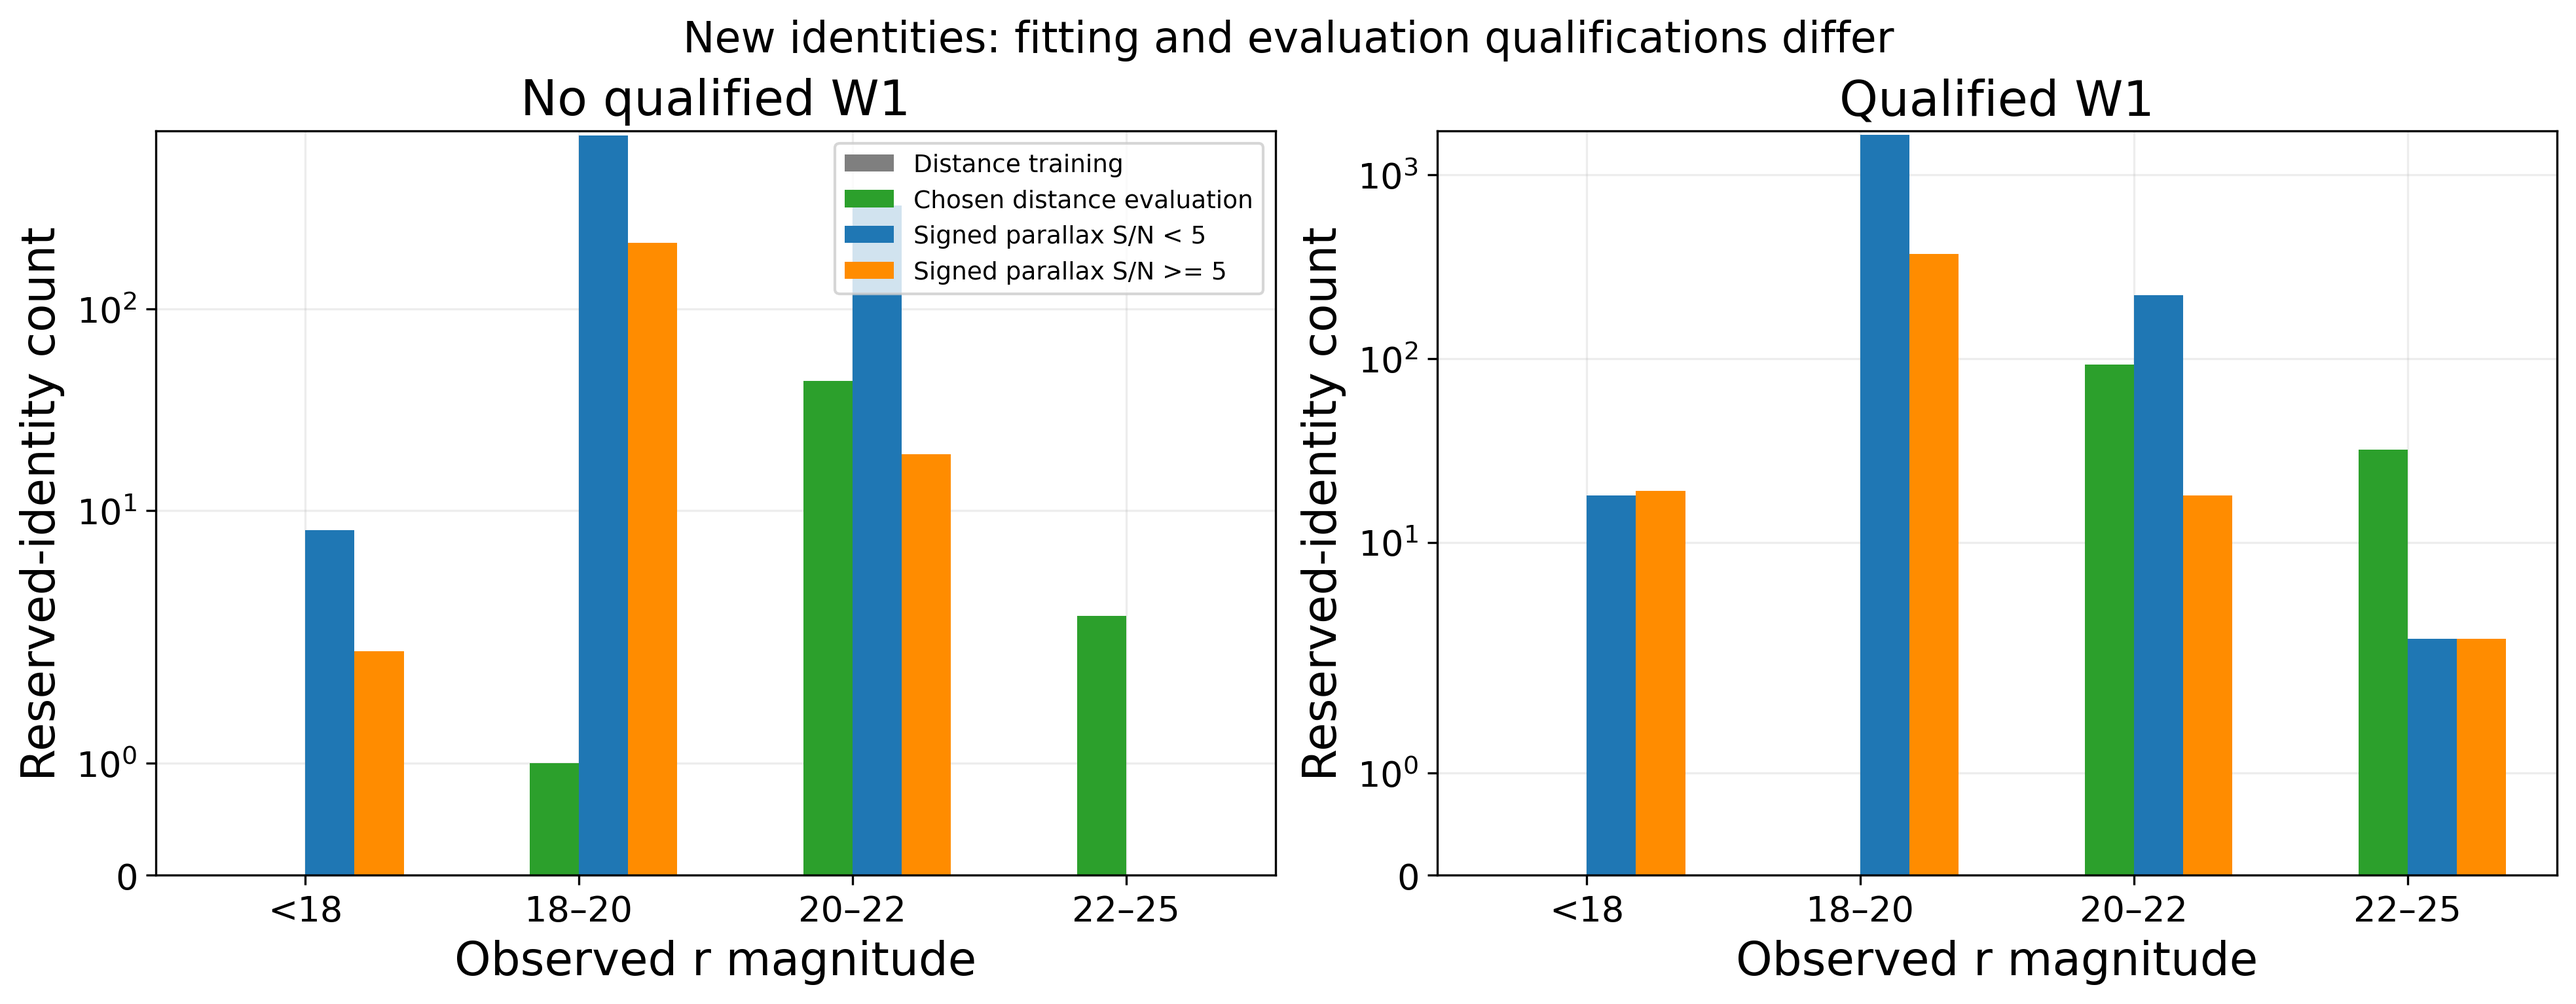
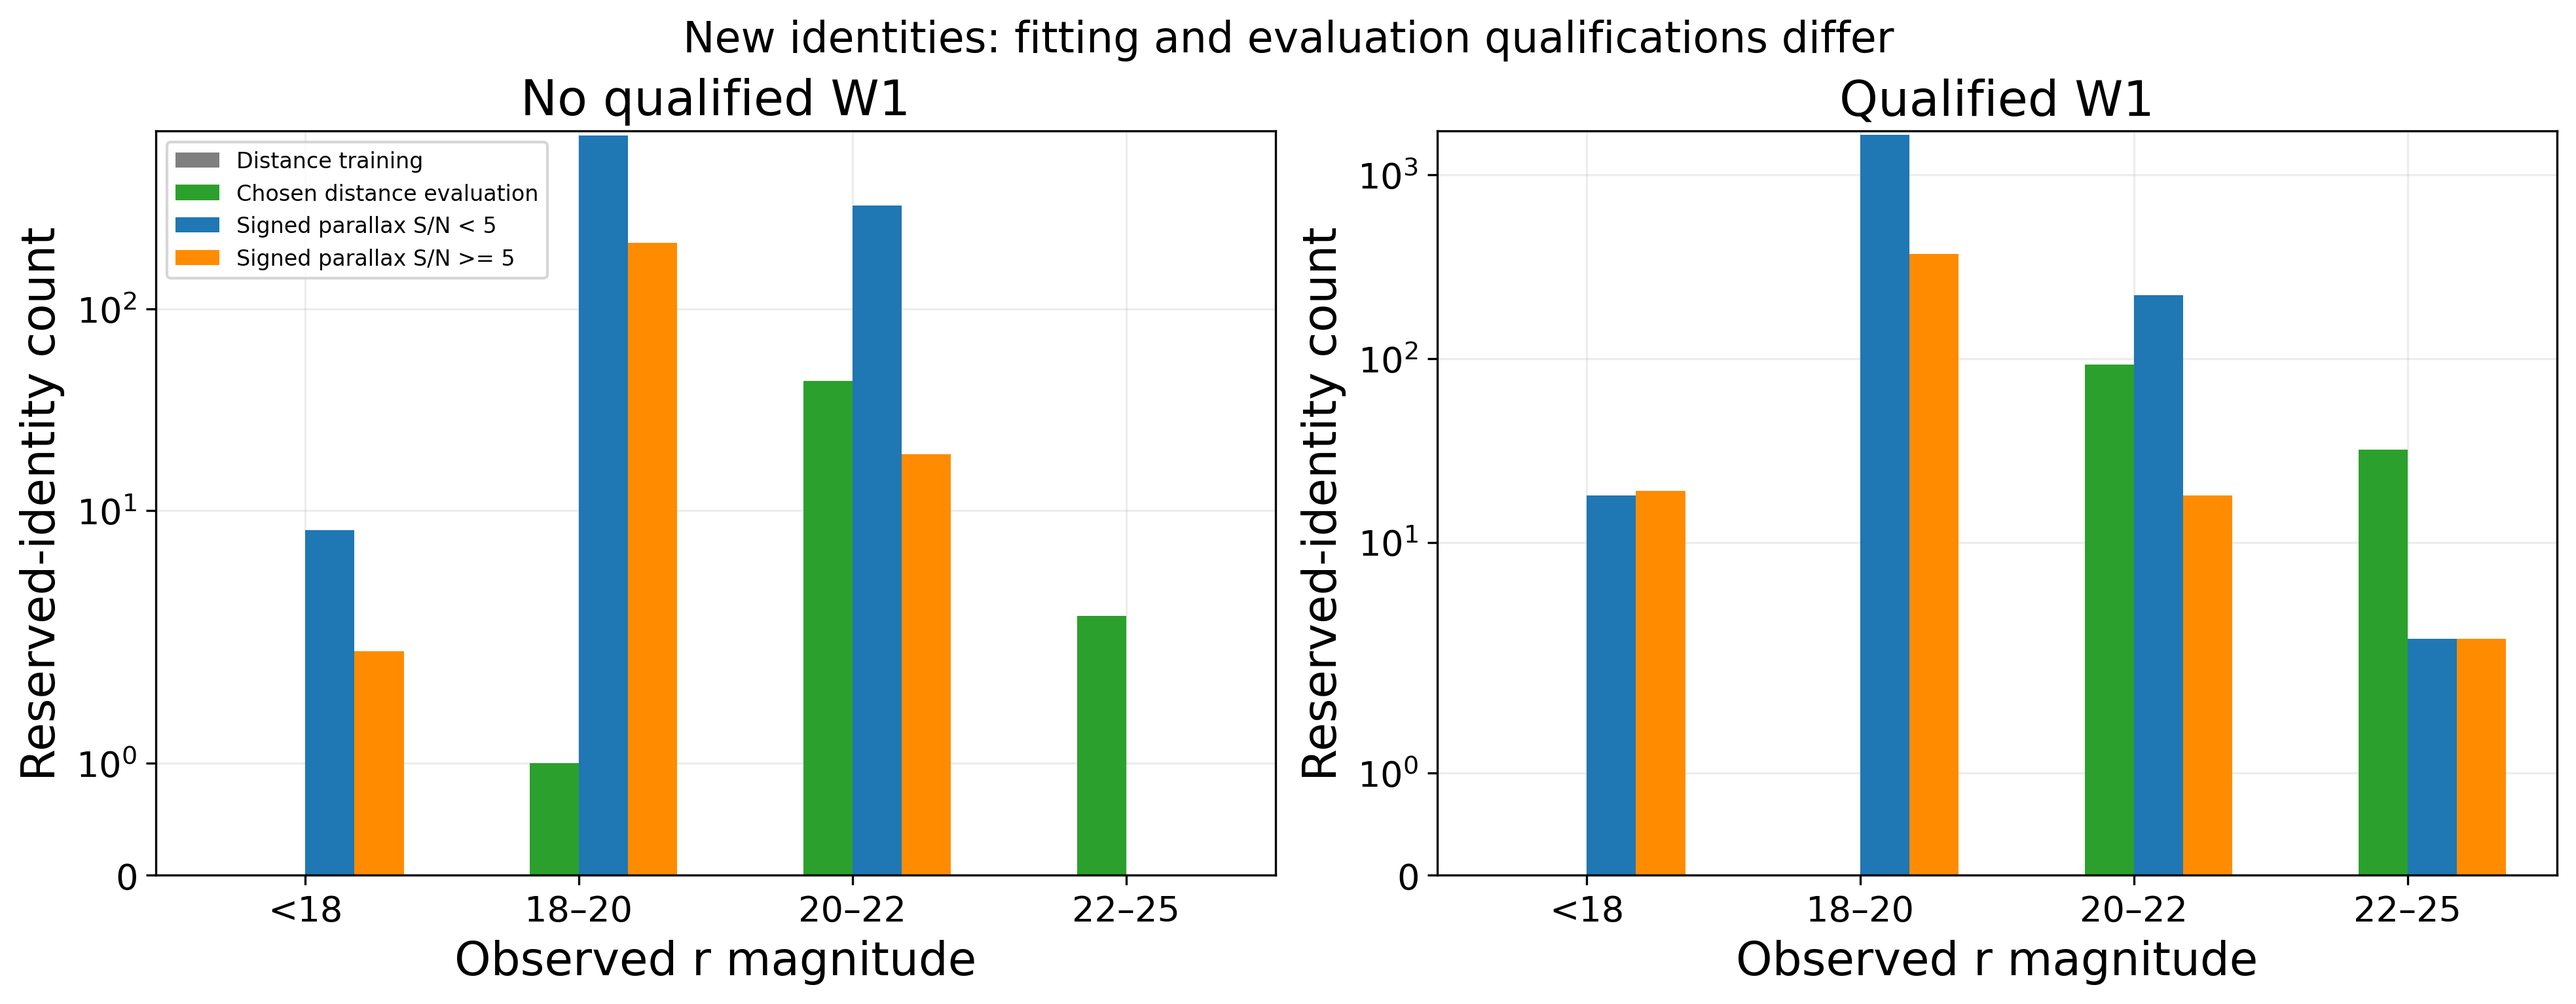
Add far-branch and artifact checks with exact-owner training provenance

Changed region(s): [[0.3101, 0.1532, 0.4962, 0.3064], [0.062, 0.1226, 0.2171, 0.2757]]

diff --git a/scripts/v2_3_far.py b/scripts/v2_3_far.py
@@ -1,0 +1,75 @@
+#!/usr/bin/env python3
+"""Post-freeze branch diagnostics and explicitly selected nonstellar controls."""
+import json
+import joblib
+import numpy as np
+from scipy.special import ndtr
+from v2_3_prepare import ROOT, DEST, TABLES
+from v2_3_diagnostics import references
+from v2_1_near import load, subset, csv_rows, save_json, sha
+from photdis.stage1 import require_compute
+from photdis.baseline_v0 import metrics, distance_quantiles
+from photdis.baseline_v1 import quantiles_interpolated
+from photdis.probability_v2_1 import JointReferenceForest
+from baseline_v1_4_experiments import arrays
+
+
+def main():
+    require_compute()
+    t=load(ROOT/'data/v2_1/development.npz');train=load(DEST/'training.npz')
+    keep=np.zeros(len(t['identity']),bool)
+    for kind in ('chosen','Gaia','specdis','spdist'):
+        ref,_=references(t,kind);d=10**((ref-10)/5)
+        keep|=(t['class_label']==1)&(d>=10)&(d<50)
+    rows=np.flatnonzero(keep);q=subset(t,rows)
+    control=joblib.load(DEST/'control.joblib');candidate=joblib.load(DEST/'candidate.joblib')
+    m,_,_=arrays(train,np.arange(len(train['identity'])))
+    joint=JointReferenceForest(control,m,train['Mg'],train['class_label'],train['label_source'])
+    values={n:dict(mu=np.full((len(rows),5),np.nan),mass=np.zeros(len(rows))) for n in ('control','candidate')}
+    for start in range(0,len(rows),128):
+        rr=np.arange(start,min(start+128,len(rows)));m,e,ids=arrays(q,rr)
+        pp=joint.predict(m,e,ids);p=pp['joint'][:,1].astype(float);mass=p.sum(axis=1);good=mass>0
+        values['control']['mass'][rr]=mass
+        values['control']['mu'][rr[good]]=distance_quantiles(m[good,0],quantiles_interpolated(p[good]/mass[good,None],control.edges))[0]
+        w,mean,sigma=candidate.conditional(m,e);w*=candidate.class_frequency[None,:,1];mass=w.sum(axis=1)
+        values['candidate']['mass'][rr]=mass;good=mass>0;w=w[good]/mass[good,None]
+        edges=np.arange(-30,40.0001,.1);pdf=np.zeros((good.sum(),len(edges)-1))
+        for k in range(candidate.components):pdf+=w[:,k,None]*np.diff(ndtr((edges[None,:]-mean[good,k,None])/sigma[good,k,None]),axis=1)
+        pdf/=pdf.sum(axis=1)[:,None]
+        values['candidate']['mu'][rr[good]]=distance_quantiles(m[good,0],quantiles_interpolated(pdf,edges))[0]
+    results=[]
+    for name,p in values.items():
+        for split,role in [(1,'cal'),(2,'development_test')]:
+            for kind in ('chosen','Gaia','specdis','spdist'):
+                ref,sigma=references(q,kind);d=10**((ref-10)/5)
+                for lo,hi in [(10,20),(20,50)]:
+                    eligible=(q['split']==split)&(d>=lo)&(d<hi);use=eligible&(p['mass']>0)
+                    results.append(dict(model=name,role=role,reference=kind,low_kpc=lo,high_kpc=hi,eligible=int(eligible.sum()),
+                        mean_branch_mass=float(p['mass'][eligible].mean()) if eligible.any() else None,
+                        **metrics(p['mu'][use],ref[use])))
+    csv_rows(TABLES/'far_conditional.csv',results)
+    # Independent of class oracle: same-object reference disagreement retained.
+    a,sa=references(q,'specdis');b,sb=references(q,'spdist');r=[]
+    for lo,hi in [(10,20),(20,50)]:
+        d=10**((a-10)/5);u=(q['split']==2)&np.isfinite(a)&np.isfinite(b)&(d>=lo)&(d<hi)
+        delta=a[u]-b[u]
+        r.append(dict(low_kpc=lo,high_kpc=hi,n=int(u.sum()),median_specdis_minus_spdist_mu=float(np.median(delta)) if len(delta) else None,
+            nmad_mu=float(1.4826*np.median(abs(delta-np.median(delta)))) if len(delta) else None))
+    csv_rows(TABLES/'far_reference_disagreement.csv',r)
+    controls=[]
+    for role,t in [('development',t),('reserved',load(DEST/'reserved_inputs.npz'))]:
+        for name in ('control','candidate'):
+            p=load(DEST/f'{role}_{name}.npz')
+            for lo,hi in [(-np.inf,18),(18,20),(20,22),(22,25)]:
+                u=t['nonstellar_risk']&(t['r']>=lo)&(t['r']<hi)
+                controls.append(dict(role=role,model=name,r_low=lo,r_high=hi,flagged_n=int(u.sum()),near_scope_selected=int((u&p['near_scope']).sum()),
+                    broad_q95_r20_selected=int((u&(p['qnear']>.95)&(t['r']<20)).sum()),
+                    caveat='Risk-flagged PSF controls, not confirmed nonstellar truth or representative contamination estimate'))
+    csv_rows(TABLES/'psf_nonstellar_controls.csv',controls)
+    save_json(DEST/'far_complete.json',dict(models=json.loads((DEST/'models_frozen.json').read_text())['models'],
+        oracle_rows=len(rows),class_conditioning='Diagnostic only; missing label is not a fourth physical class',
+        independent_scale=False,source='Existing chosen/Gaia/SpecDis/SPDist only'))
+    print('FAR COMPLETE',len(rows),flush=True)
+
+
+if __name__=='__main__':main()

diff --git a/scripts/v2_3_validate.py b/scripts/v2_3_validate.py
@@ -1,0 +1,61 @@
+#!/usr/bin/env python3
+"""Verify real frozen data, probability outputs and separation after production."""
+import csv
+import json
+import numpy as np
+from v2_3_prepare import ROOT,DEST,TABLES
+from v2_1_near import load,sha,save_json
+from photdis.stage1 import require_compute
+from photdis.probability_v2_1 import near_mass
+from photdis.selection_v2_2 import canonical_probability
+
+
+def main():
+    require_compute();checks={}
+    def check(name,result):
+        checks[name]=bool(result)
+        assert result,name
+    freeze=json.loads((DEST/'models_frozen.json').read_text());tr=load(DEST/'training.npz');old=load(ROOT/'data/v2_1/frozen_training_audit.npz')
+    for path,digest in freeze['inputs'].items():check('frozen:'+path,sha(ROOT/path)==digest)
+    for name,h in freeze['models'].items():check('model:'+name,sha(DEST/(name+'.joblib'))==h)
+    check('strict_training',np.all(tr['TYPE']=='PSF'))
+    check('unlabeled_support_retained',np.sum(tr['class_label']<0)==43914)
+    check('finite_reference_errors',np.all(np.isfinite(tr['sigma_mu'])&(tr['sigma_mu']>0)))
+    from photdis.reference_v1_4 import unique_join
+    j=unique_join(tr['identity'],old['identity']);check('original_training_owners',(j>=0).all() and np.array_equal(tr['ls_id'],old['ls_id'][j]))
+    for k in ['g0','r0','z0','sigma_g','sigma_r','sigma_z','Mg','TYPE']:check('unchanged_training:'+k,np.array_equal(tr[k],old[k][j],equal_nan=True) if tr[k].dtype.kind=='f' else np.array_equal(tr[k],old[k][j]))
+    allids={}
+    for role,source in [('development',ROOT/'data/v2_1/development.npz'),('reserved',DEST/'reserved_inputs.npz'),('application',ROOT/'data/v2_2/application_inputs.npz')]:
+        t=load(source);allids[role]=t['identity'];check(role+':PSF',np.all(t['TYPE']=='PSF'))
+        if role!='application':check(role+':no_fit_overlap',not np.intersect1d(t['identity'],tr['identity']).size)
+        for name in ('control','candidate'):
+            p=load(DEST/f'{role}_{name}.npz');grid=load(DEST/(name+'_grid.npz'))['edges']
+            check(role+name+':identities',np.array_equal(t['identity'],p['identity']))
+            check(role+name+':quantiles',np.all(np.isfinite(p['mu'])) and np.all(np.diff(p['mu'],axis=1)>=0))
+            check(role+name+':q',np.array_equal(canonical_probability(p['qnear']),p['qnear']))
+            count=0
+            for path in sorted((DEST/'chunks').glob(f'{role}_{name}_*.npz')):
+                q=load(path);r=q['rows'];key=path.stem
+                check(key+':hash',sha(path)==json.loads(path.with_suffix('.json').read_text())['sha256'])
+                check(key+':PSF',np.all(q['TYPE']=='PSF'))
+                check(key+':pdf',np.isfinite(q['pdf']).all() and np.all(q['pdf']>=0) and np.allclose(q['pdf'].sum(axis=1),1,atol=2e-6))
+                check(key+':ids',np.array_equal(q['identity'],t['identity'][r]))
+                check(key+':near_mass',np.max(abs(near_mass(q['pdf'],grid,t['g0'][r])-q['qnear']))<(1e-2 if name=='candidate' else 2e-6))
+                if name=='candidate':check(key+':escaped_mass',np.max(q['escaped_mass'])<=1e-6)
+                count+=len(r)
+            check(role+name+':complete_rows',count==len(t['identity']))
+    check('reserved_development_disjoint',not np.intersect1d(allids['reserved'],allids['development']).size)
+    check('reserved_application_disjoint',not np.intersect1d(allids['reserved'],allids['application']).size)
+    opened=json.loads((DEST/'reserved_opened.json').read_text());check('reserved_models_frozen_first',opened['models']==freeze['models'])
+    for role in ('development','reserved'):
+        with open(TABLES/f'{role}_pit.csv') as f:rows=list(csv.DictReader(f))
+        with open(TABLES/f'{role}_gaia.csv') as f:ga=list(csv.DictReader(f))
+        key=lambda r:tuple(r[k] for k in ('role','model','group','selection'))
+        counts={}
+        for r in rows:counts[key(r)]=counts.get(key(r),0)+int(r['n'])
+        for i,r in enumerate(ga):check(role+':PITdenominator:'+str(i),counts[key(r)]==int(r['n']))
+    save_json(DEST/'validation.json',dict(actual_checks=len(checks),all_passed=all(checks.values()),checks=checks))
+    print('VALIDATION',len(checks),flush=True)
+
+
+if __name__=='__main__':main()

diff --git a/scripts/v2_3_figures.py b/scripts/v2_3_figures.py
@@ -26,7 +26,7 @@ def corrections():
         r=sel(data,W1=wise)[:4]
         for i,(key,label,color) in enumerate(keys):ax.bar(np.arange(4)+(i-1.5)*.18,[val(x,key) for x in r],width=.18,color=color,label=label)
         ax.set(xticks=np.arange(4),xticklabels=['<18','18–20','20–22','22–25'],ylabel='Reserved-identity count',xlabel='Observed r magnitude',yscale='symlog',title='No qualified W1' if wise=='False' else 'Qualified W1')
-    axes[0].legend(fontsize=9);fig.suptitle('New identities: fitting and evaluation qualifications differ')
+    axes[0].legend(fontsize=8,loc='upper left');fig.suptitle('New identities: fitting and evaluation qualifications differ')
     save(fig,'02_reference_inventory',['reference_inventory'],'42076 strict-PSF new identities in existing sky.173 chosen evaluation references,3596 signed Gaia observations. Source-valid VAC counts in CSV include exclusions and are not interchangeable with clean chosen labels. No new-scale or independent-sky claim.')
 
 

diff --git a/WORKLOG.md b/WORKLOG.md
@@ -1,5 +1,12 @@
 # WORKLOG
 
+## 2026-11-10 — original-owner preparation verified
+- Preparation61078415 COMPLETED0:0. Exact owner/photometry equality checks pass; all266774verified PSF training objects now have valid original-source errors, including43914unlabeled. Earlier266772count superseded.
+- Cancelled61078245 whilePENDING (confirmedCANCELLED, no fit files); next single debug run uses fixed model protocol and hashed checkpoints. No reserved outcomes opened.
+- Added selected-distance/Gaia/reference-convolved scoring, metal-poor matching, far class-oracle diagnostics, PSF risk controls and actual-artifact validator. Six focused math/scoring tests pass.
+- Two English cache-correction plates visually inspected; inventory legend moved clear of data. No frozen historical arrays/protocol changed.
+
+
 ## 2026-11-10 — preserve original training owner before fitting
 - Cache preparation61078191 COMPLETED0:0; noise baseline and42076identity inventory recovered.173chosen evaluation references;3596signed Gaia observations split2952SNR<5/644SNR>=5.
 - Pre-fit inspection found new-reference preference could replace legacy training owner photometry while retaining original TYPE. Fixed training preparation to preserve original audited owner arrays exactly and join sigma_mu from corresponding old/new source; explicit source-hash migration requires no fit/model file.

diff --git a/PLAN.md b/PLAN.md
@@ -6,8 +6,8 @@ Latest full review: docs/pro_review_83e1fe8.md. Frozen prospective protocol:
 docs/v2_3_protocol.md. Cache corrections/inventory first; one same-PSF control
 and error-aware multimodal candidate frozen before reserved outcomes.
 - [x] Noise baseline correction and outcome-blind evaluation-reference inventory:173chosen,2952weak/644SNR>=5Gaia;42076reserved.
-- [ ] Freeze near scope, prepare full PSF distance support, validate XD mathematics.
-- [ ] Fit/freeze one candidate and same-identity QRF; then evaluate reserved IDs.
+- [x] Freeze near scope, exact-owner266774PSF distance support/43914unlabeled;6math/scoring tests.
+- [ ] Fit/freeze one candidate and same-identity QRF; job61078462(debug30min) submitted after owner repair; then evaluate reserved IDs.
 - [ ] Selected-distance, poor-metal, far/reference, target-coverage diagnostics.
 - [ ] English figures, actual artifact checks, explicit evidence limits, safe sync.
 No deployment, full catalog, monitoring or subagents.
